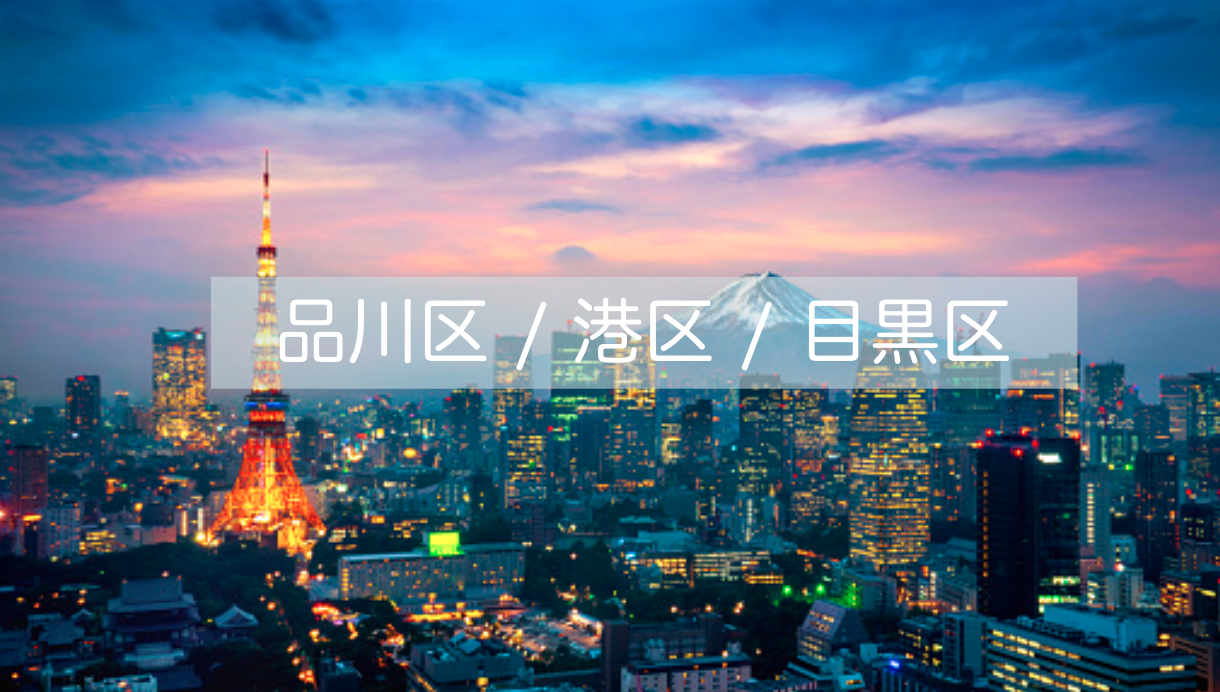
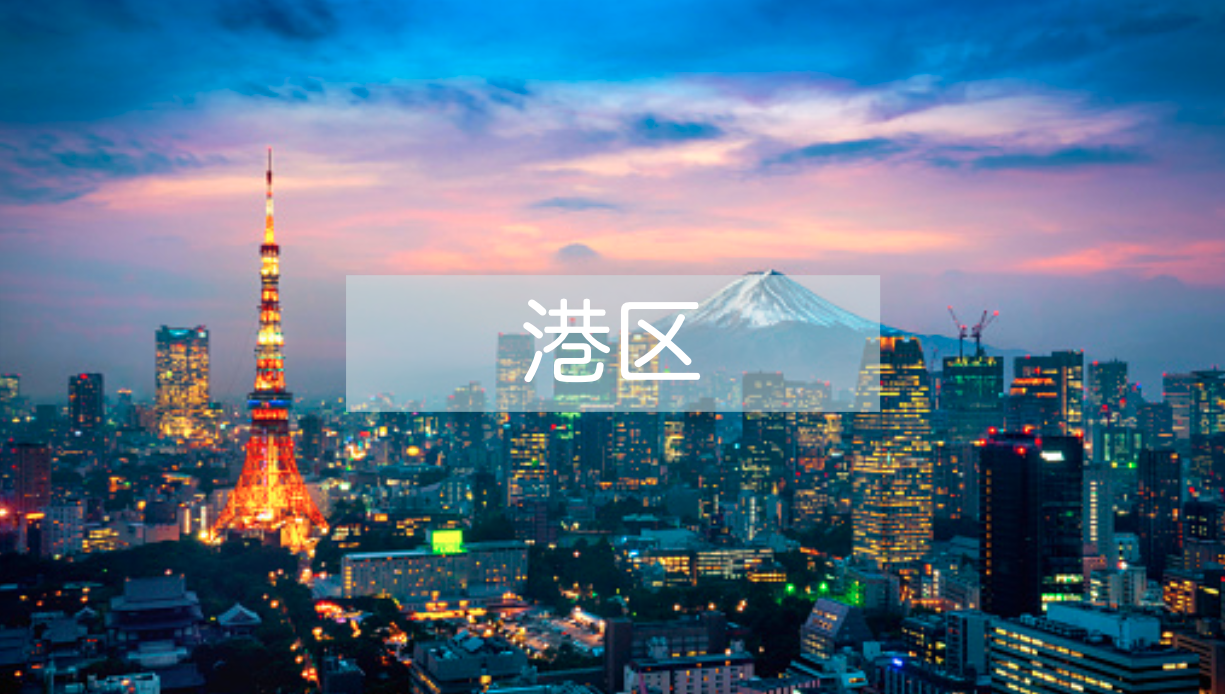
Second Commit

diff --git a/toilog21-22/index.html b/toilog21-22/index.html
@@ -55,9 +55,11 @@
             <div class="container px-4 px-lg-5">
                 <div class="row gx-4 gx-lg-5 justify-content-center">
                     <div class="col-lg-8 text-center">
-                        <h2 class="text-white mt-0">We've got what you need!</h2>
+                        <h2 class="text-white mt-0">外出先でお気に入りのトイレはありますか？</h2>
                         <hr class="divider divider-light" />
-                        <p class="text-white-75 mb-4">Start Bootstrap has everything you need to get your new website up and running in no time! Choose one of our open source, free to download, and easy to use themes! No strings attached!</p>
+                        <p class="text-white-75 mb-4">よく行く駅に隣接した駅ビルのあのトイレはキレイで使いやすいな。</br>どんな街でもこんな風にキレイなトイレの場所が分かればな・・・</br>そう思ったことはありませんか？
+                        </br>みんなで知識を共有することで、その思い叶えましょう。
+                        </p>
                         <a class="btn btn-light btn-xl" href="#services">Get Started!</a>
                     </div>
                 </div>
@@ -109,7 +111,7 @@
                             <img class="img-fluid" src="assets/img/portfolio/thumbnails/1.jpg" alt="..." />
                             <div class="portfolio-box-caption">
                                 <div class="project-category text-white-50">トレを探す</div>
-                                <div class="project-name">品川区 / 港区 / 目黒区</div>
+                                <div class="project-name">港区</div>
                             </div>
                         </a>
                     </div>
